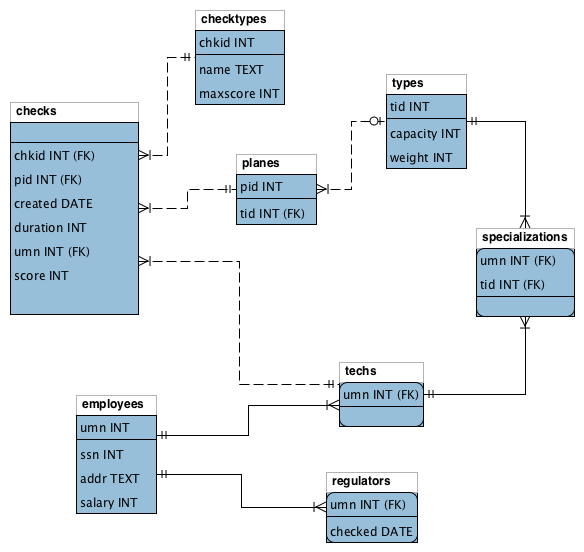
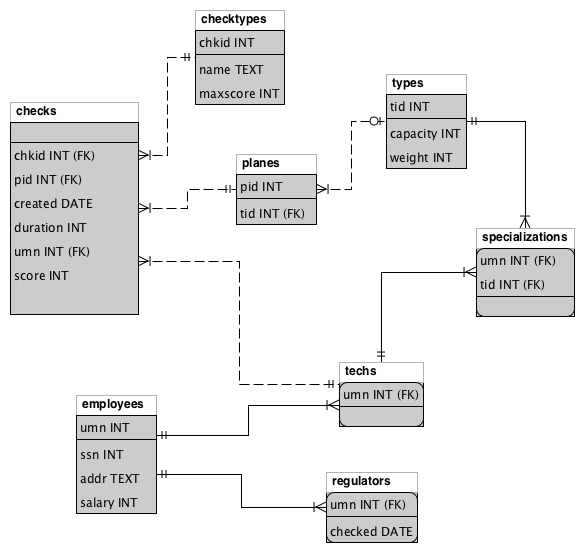
grayed background, updated tex to print-ready

diff --git a/Tex/db_intro/db_intro.tex b/Tex/db_intro/db_intro.tex
@@ -73,6 +73,7 @@
 \pagebreak
 %}}}
 
+
 %{{{ Relational Model
 \section{Σχεσιακό Μοντέλο  (Relational model)}
 Θα μετατρέψουμε το προηγούμενο μοντέλο E-R στο αντίστοιχο σχεσιακό σχήμα.
@@ -123,7 +124,7 @@ duration, score)
 
 \begin{figure}[h]
 \centering
-\includegraphics[width=0.7\textwidth]{../../R_model/r-db.png}\\
+\includegraphics[width=0.855555\textwidth]{../../R_model/r-db.png}\\
 \caption{Διάγραμμα σχεσιακού μοντέλου}
 \end{figure}
 
